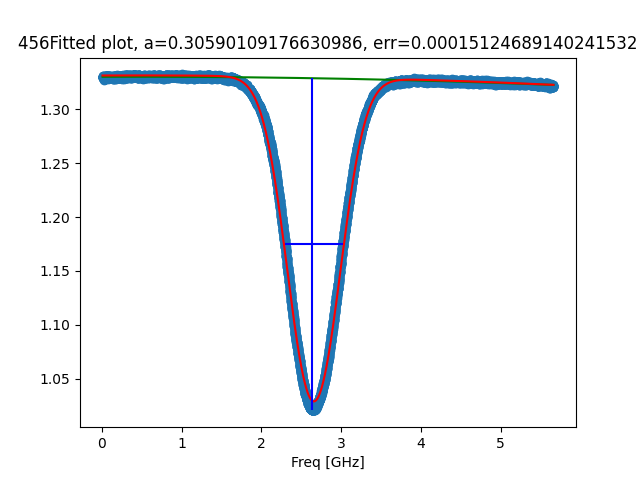
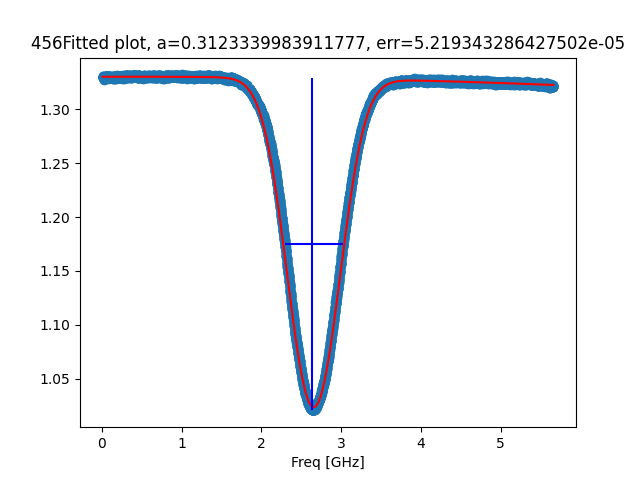
need new code

diff --git a/TestingDataType.py b/TestingDataType.py
@@ -856,15 +856,13 @@ class data:
             weights1 = plotting_freq.copy()
             weights1 = weights1.tolist()
             dist = 1000
-            for i in range(len(weights1)):
-                if i < dist:
-                    weights1[i] = np.std(plotting_scaledT[0:dist])
-                elif i > len(weights1) - dist-1:
-                    weights1[i] = np.std(plotting_scaledT[len(weights1)-dist:len(weights1)-1])
-                else:
-                    weights1[i] = np.std(plotting_scaledT[i-int(dist/2):i+int(dist/2)])
-            plt.plot(plotting_freq,weights1)
-            plt.show()
+            # for i in range(len(weights1)):
+            #     if i < dist:
+            #         weights1[i] = np.std(plotting_scaledT[0:dist])
+            #     elif i > len(weights1) - dist-1:
+            #         weights1[i] = np.std(plotting_scaledT[len(weights1)-dist:len(weights1)-1])
+            #     else:
+            #         weights1[i] = np.std(plotting_scaledT[i-int(dist/2):i+int(dist/2)])
             # if self.etalon_ranges[0][1] != 0:
             #     test = LinFit(self.etalon_ranges, self.beatfit(self.indices), self.scaledT)
             # else:
@@ -874,6 +872,11 @@ class data:
                 test = LinFit([[self.beat_rng[0],peaks[0]-int(properties['widths'][0]*1.5)],[peaks[0]+int(properties['widths'][0]*1.5),self.beat_rng[1]]], self.beatfit(self.indices), self.scaledT)
                 test2 = LinFit2([[self.beat_rng[0],peaks[0]-int(properties['widths'][0]*1.5)],[peaks[0]+int(properties['widths'][0]*1.5),self.beat_rng[1]]], self.beatfit(self.indices), self.scaledT)
                 test3 = LinFit3([[self.beat_rng[0],peaks[0]-int(properties['widths'][0]*1.5)],[peaks[0]+int(properties['widths'][0]*1.5),self.beat_rng[1]]], self.beatfit(self.indices), self.scaledT)
+
+                gauss1 = lambda x,peak,cen,s: peak * np.exp(-((x-cen)/s)**2/2) + 1
+                weights1 = gauss1(plotting_freq,6,self.beatfit(peaks[0]),0.15)
+                plt.plot(plotting_freq,weights1)
+                plt.show()
             else:
                 # print('left',peaks[0]-int(properties['widths'][0]),'right',peaks[1]+int(properties['widths'][1]))
                 test = LinFit([[self.beat_rng[0],peaks[0]-int(properties['widths'][0])],[peaks[1]+int(properties['widths'][1]),self.beat_rng[1]]], self.beatfit(self.indices), self.scaledT)
@@ -1007,7 +1010,7 @@ class data:
             plt.xlabel('Freq [GHz]')
             # plt.show()
             if self.scan == '456':
-                plt.plot(plotting_freq,test2[0]*(plotting_freq**2)+test2[1]*(plotting_freq)+test2[2],'-g')
+                # plt.plot(plotting_freq,test2[0]*(plotting_freq**2)+test2[1]*(plotting_freq)+test2[2],'-g')
                 plt.plot(plotting_freq,fun1(plotting_freq,*self.fitted_param),'-r')
             else:
                 plt.plot(plotting_freq,test[0]*(plotting_freq)+test[1],'-g')
@@ -1018,6 +1021,7 @@ class data:
             k4 = self.beatfit(properties["right_ips"])
             plt.vlines(x=self.beatfit(peaks), ymin= self.scaledT[peaks], ymax = properties['prominences']+self.scaledT[peaks], color = "blue")
             plt.hlines(y=-properties["width_heights"], xmin=k3,xmax=k4, color = "blue")
+            # plt.plot(plotting_freq,weights1)
             plt.savefig(self.folder+r'\plots\FittedScan.png')
             plt.show()
             plt.clf()